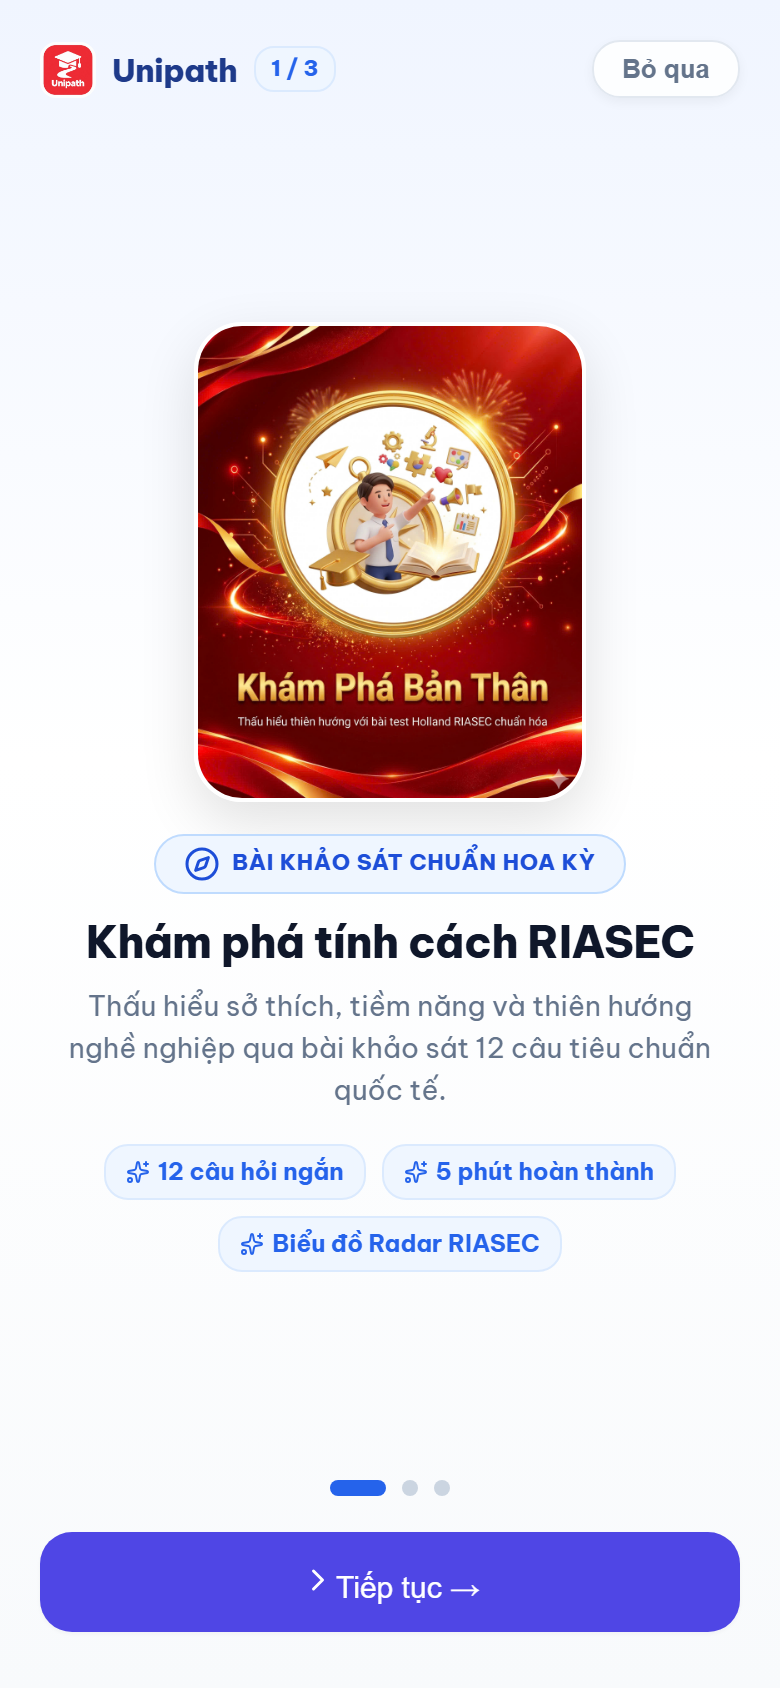
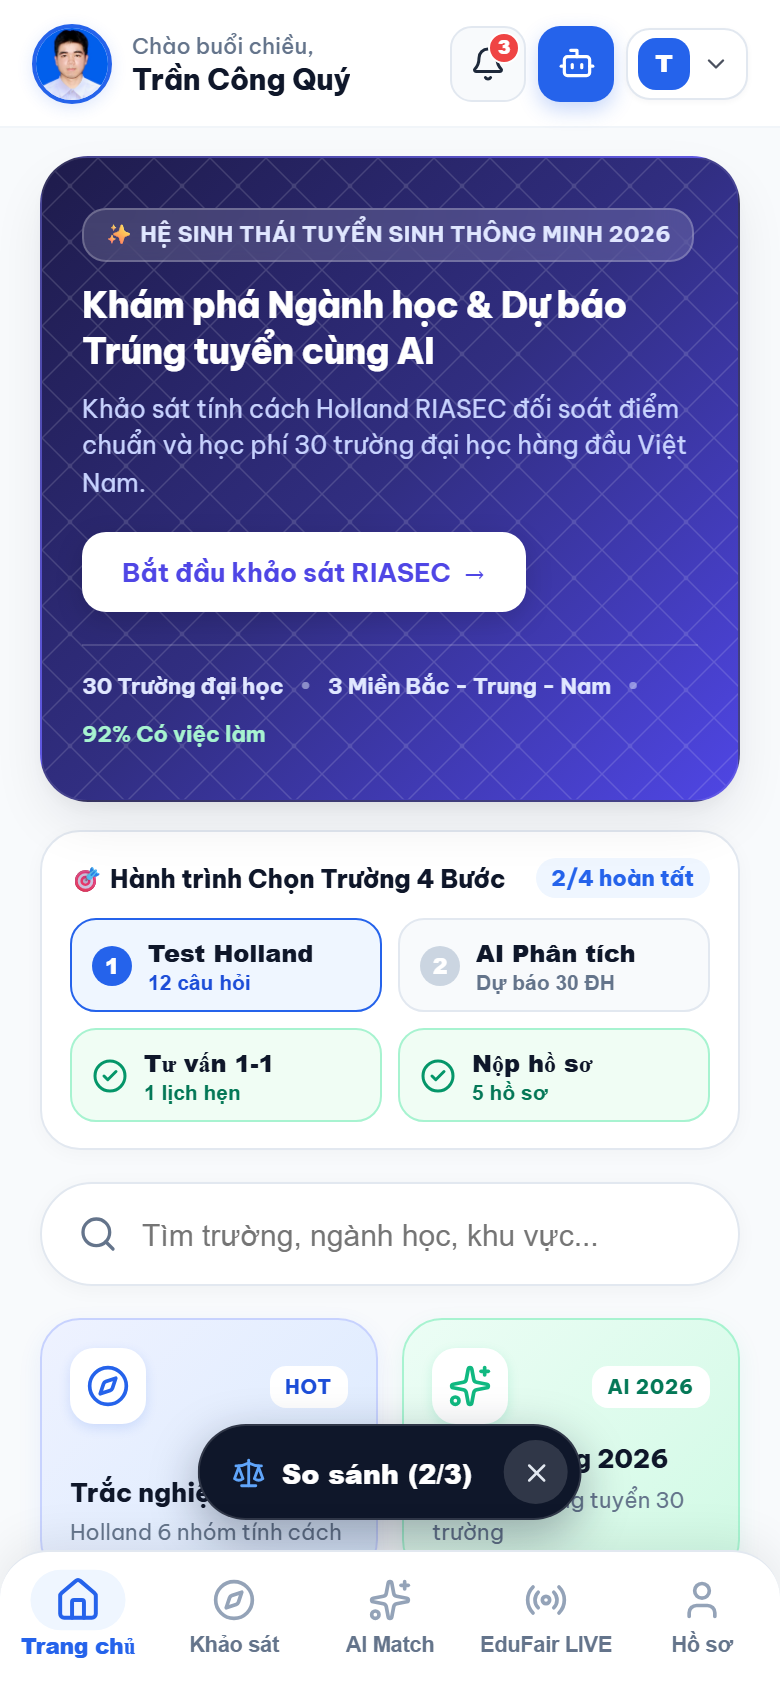
fix(ui): prevent StatusChip wrap and update mobile home proof screenshot

diff --git a/src/components/university/UniversityApp.tsx b/src/components/university/UniversityApp.tsx
@@ -414,7 +414,7 @@ export const UniversityApp: React.FC = () => {
                     <th>Thí sinh</th>
                     <th>Ngành đăng ký tại PXU</th>
                     <th>Đối chiếu Chuẩn ngành</th>
-                    <th>Trạng thái</th>
+                    <th style={{ width: '145px', minWidth: '140px', whiteSpace: 'nowrap' }}>Trạng thái</th>
                     <th style={{ textAlign: 'right' }}>Xét duyệt</th>
                   </tr>
                 </thead>
@@ -440,7 +440,7 @@ export const UniversityApp: React.FC = () => {
                             {delta >= 4 ? `🌟 +${formatCleanDecimal(delta, 2)}đ (Đề xuất HB OJT)` : delta >= 0 ? `✓ +${formatCleanDecimal(delta, 2)}đ Đạt chuẩn` : `${formatCleanDecimal(delta, 2)}đ Dưới chuẩn`}
                           </span>
                         </td>
-                        <td>
+                        <td style={{ width: '145px', minWidth: '140px', whiteSpace: 'nowrap' }}>
                           <StatusBadge status={app.status} />
                         </td>
                         <td style={{ textAlign: 'right' }}>
@@ -646,7 +646,7 @@ export const UniversityApp: React.FC = () => {
                       <th>Thí sinh & Mã HS</th>
                       <th>Ngành đăng ký PXU</th>
                       <th>Điểm / Chuẩn PXU</th>
-                      <th>Trạng thái</th>
+                      <th style={{ width: '145px', minWidth: '140px', whiteSpace: 'nowrap' }}>Trạng thái</th>
                     </tr>
                   </thead>
                   <tbody>
@@ -679,7 +679,7 @@ export const UniversityApp: React.FC = () => {
                               {delta >= 4 ? `🌟 +${delta}đ (HB OJT)` : delta >= 0 ? `+${delta}đ Đạt` : `${delta}đ`}
                             </span>
                           </td>
-                          <td>
+                          <td style={{ width: '145px', minWidth: '140px', whiteSpace: 'nowrap' }}>
                             <StatusBadge status={app.status} />
                           </td>
                         </tr>

diff --git a/src/components/admin/AdminApp.tsx b/src/components/admin/AdminApp.tsx
@@ -487,7 +487,7 @@ export const AdminApp: React.FC = () => {
                     <th>Thí sinh</th>
                     <th>Trường & Ngành</th>
                     <th>Điểm / Chuẩn</th>
-                    <th>Trạng thái</th>
+                    <th style={{ width: '145px', minWidth: '140px', whiteSpace: 'nowrap' }}>Trạng thái</th>
                     <th style={{ textAlign: 'right' }}>Tác vụ</th>
                   </tr>
                 </thead>
@@ -526,7 +526,7 @@ export const AdminApp: React.FC = () => {
                             {delta >= 0 ? `+${delta}đ Đạt chuẩn` : `${delta}đ Dưới chuẩn`}
                           </span>
                         </td>
-                        <td>
+                        <td style={{ width: '145px', minWidth: '140px', whiteSpace: 'nowrap' }}>
                           <StatusBadge status={app.status} />
                         </td>
                         <td style={{ textAlign: 'right' }}>
@@ -911,7 +911,7 @@ export const AdminApp: React.FC = () => {
                       <th>Thí sinh & Mã HS</th>
                       <th>Trường & Ngành đăng ký</th>
                       <th>Điểm / Chuẩn</th>
-                      <th>Trạng thái</th>
+                      <th style={{ width: '145px', minWidth: '140px', whiteSpace: 'nowrap' }}>Trạng thái</th>
                     </tr>
                   </thead>
                   <tbody>
@@ -979,7 +979,7 @@ export const AdminApp: React.FC = () => {
                               {delta >= 0 ? `+${delta}đ` : `${delta}đ`}
                             </span>
                           </td>
-                          <td>
+                          <td style={{ width: '145px', minWidth: '140px', whiteSpace: 'nowrap' }}>
                             <StatusBadge status={app.status} />
                           </td>
                         </tr>

diff --git a/src/components/common/UI.tsx b/src/components/common/UI.tsx
@@ -337,8 +337,12 @@ export const StatusChip: React.FC<StatusChipProps> = ({
 
   return (
     <span
-      className={`inline-flex items-center gap-1.5 font-bold rounded-full whitespace-nowrap ${className}`}
+      className={`inline-flex items-center gap-1.5 font-bold rounded-full ${className}`}
       style={{
+        display: 'inline-flex',
+        alignItems: 'center',
+        whiteSpace: 'nowrap',
+        flexShrink: 0,
         backgroundColor: bg,
         color: text,
         border: `1px solid ${border}`,
@@ -348,8 +352,8 @@ export const StatusChip: React.FC<StatusChipProps> = ({
         ...style,
       }}
     >
-      <Icon size={isSmall ? 12 : 13} className="shrink-0" />
-      <span>{normalized || 'Không xác định'}</span>
+      <Icon size={isSmall ? 12 : 13} className="shrink-0" style={{ flexShrink: 0 }} />
+      <span style={{ whiteSpace: 'nowrap' }}>{normalized || 'Không xác định'}</span>
     </span>
   );
 };

diff --git a/src/App.tsx b/src/App.tsx
@@ -50,9 +50,21 @@ const MainApp: React.FC = () => {
     user,
   } = useApp();
 
-  const [showOnboarding, setShowOnboarding] = useState<boolean>(() => !isLoggedIn);
+  const [showOnboarding, setShowOnboarding] = useState<boolean>(() => {
+    try {
+      const tourDone = localStorage.getItem('unipath_tour_completed') === 'true';
+      return !tourDone && !isLoggedIn;
+    } catch {
+      return !isLoggedIn;
+    }
+  });
 
   const handleFinishOnboarding = () => {
+    try {
+      localStorage.setItem('unipath_tour_completed', 'true');
+    } catch {
+      // ignore
+    }
     setShowOnboarding(false);
   };
 
